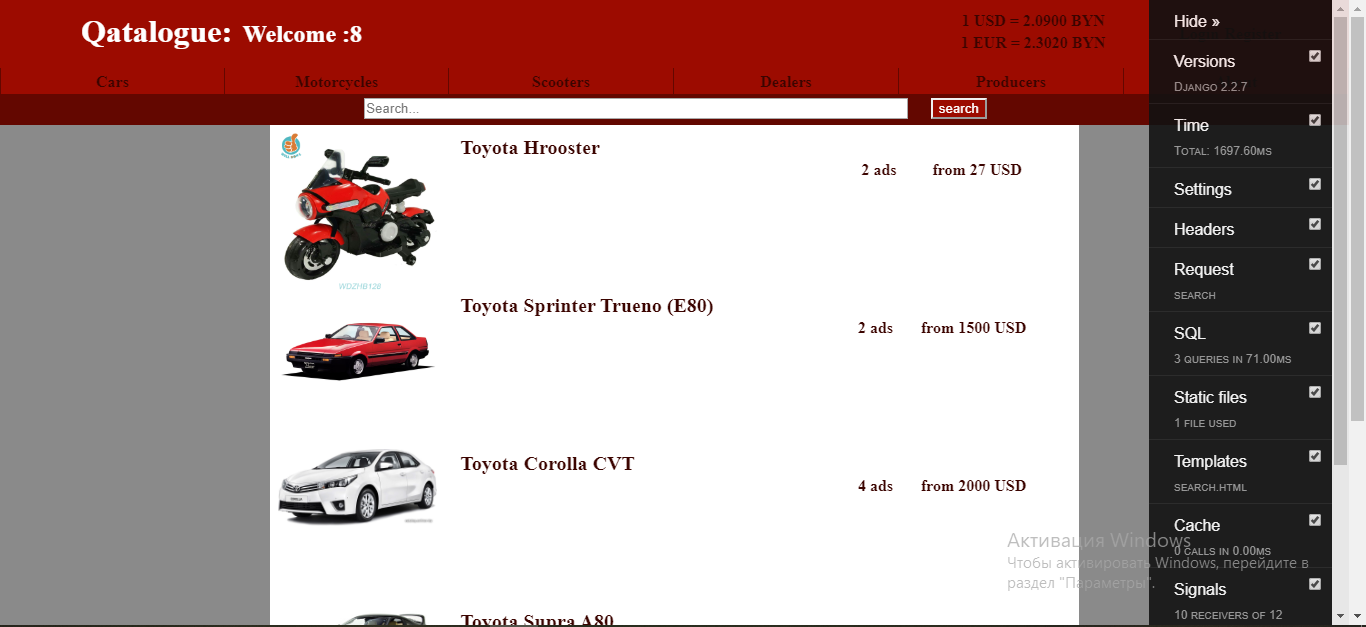
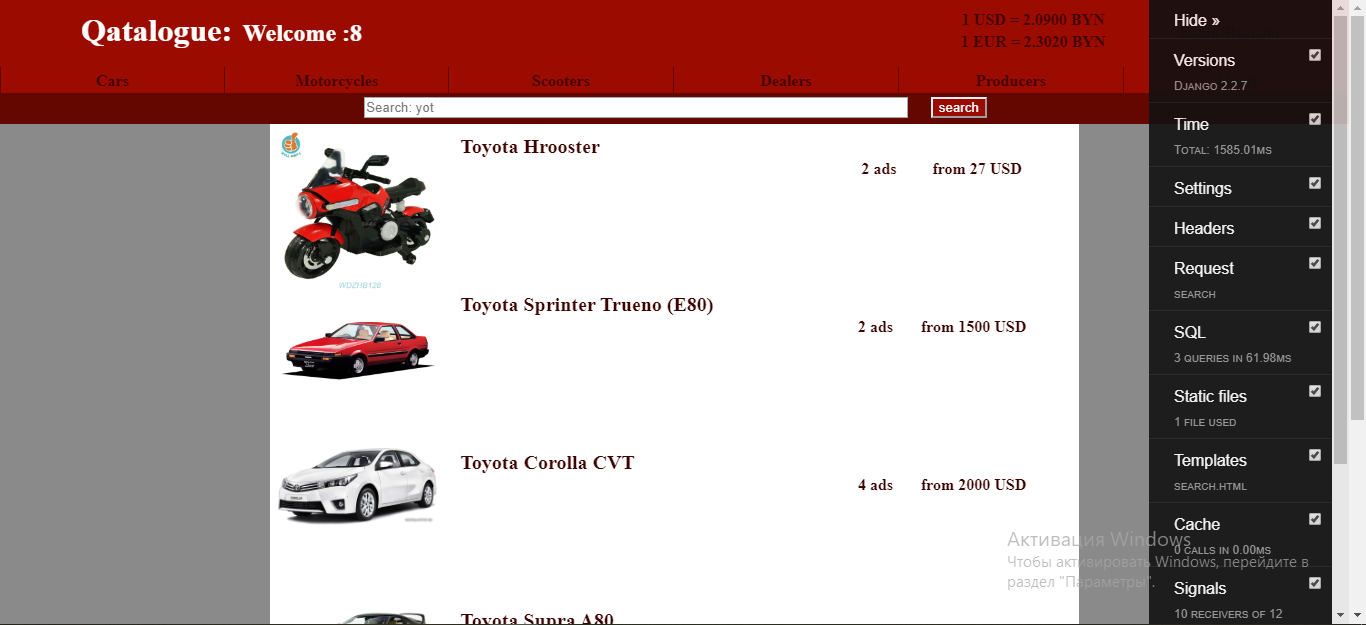
search fix

diff --git a/qatalogue/templates/base.html b/qatalogue/templates/base.html
@@ -42,7 +42,7 @@
                 <div class="search">
     <form action="{% url 'search' %}" method="get">
 
-    <input name="mark" type="text" placeholder="Search..." class="search_form">
+    <input name="mark" type="text" placeholder="Search: {{search_initial}}" class="search_form">
         <input type="submit" value="search" class="search_button">
     </form>
                 </div>

diff --git a/qatalogue/main/views.py b/qatalogue/main/views.py
@@ -148,26 +148,29 @@ def dealer_registration(request):
 
 
 def search(request):
-    mark = request.GET.get('mark')
-    cars = Car.objects.select_related('cars_ads', 'producer').prefetch_related('producer__name').annotate(
-        category=Value('cars', output_field=CharField()),
-        ads=Count('cars_ads'), min=Min('cars_ads__price')).filter(
-        Q(producer__name__icontains=mark) | Q(model__icontains=mark)).values_list(
-        'producer__name', 'model', 'category', 'id', 'ads', 'min', 'pic')
-    motorcycles = Motorcycle.objects.select_related('motorcycles_ads', 'producer').prefetch_related(
-        'producer__name').annotate(
-        category=Value('motorcycles', output_field=CharField()),
-        ads=Count('motorcycles_ads'), min=Min('motorcycles_ads__price')).filter(
-        Q(producer__name__icontains=mark) | Q(model__icontains=mark)).values_list(
-        'producer__name', 'model', 'category', 'id', 'ads', 'min', 'pic')
-    scooters = Scooter.objects.select_related('scooters_ads', 'producer').prefetch_related('producer__name').annotate(
-        category=Value('scooters', output_field=CharField()),
-        ads=Count('scooters_ads'), min=Min('scooters_ads__price')).filter(
-        Q(producer__name__icontains=mark) | Q(model__icontains=mark)).values_list(
-        'producer__name', 'model', 'category', 'id', 'ads', 'min', 'pic')
+    if request.GET.get('mark'):
+        mark = request.GET.get('mark')
+        cars = Car.objects.select_related('cars_ads', 'producer').prefetch_related('producer__name').annotate(
+            category=Value('cars', output_field=CharField()),
+            ads=Count('cars_ads'), min=Min('cars_ads__price')).filter(
+            Q(producer__name__icontains=mark) | Q(model__icontains=mark)).values_list(
+            'producer__name', 'model', 'category', 'id', 'ads', 'min', 'pic')
+        motorcycles = Motorcycle.objects.select_related('motorcycles_ads', 'producer').prefetch_related(
+            'producer__name').annotate(
+            category=Value('motorcycles', output_field=CharField()),
+            ads=Count('motorcycles_ads'), min=Min('motorcycles_ads__price')).filter(
+            Q(producer__name__icontains=mark) | Q(model__icontains=mark)).values_list(
+            'producer__name', 'model', 'category', 'id', 'ads', 'min', 'pic')
+        scooters = Scooter.objects.select_related('scooters_ads', 'producer').prefetch_related('producer__name').annotate(
+            category=Value('scooters', output_field=CharField()),
+            ads=Count('scooters_ads'), min=Min('scooters_ads__price')).filter(
+            Q(producer__name__icontains=mark) | Q(model__icontains=mark)).values_list(
+            'producer__name', 'model', 'category', 'id', 'ads', 'min', 'pic')
 
-    product = sorted(chain(cars, motorcycles, scooters), key=lambda instance: instance[3])
-    return render(request, "search.html", {"products": product, 'cash_course': exchange()})
+        product = sorted(chain(cars, motorcycles, scooters), key=lambda instance: instance[3])
+    else:
+        product = mark = None
+    return render(request, "search.html", {"products": product, 'cash_course': exchange(), 'search_initial': mark})
 
 
 def add_ad(request, category):
